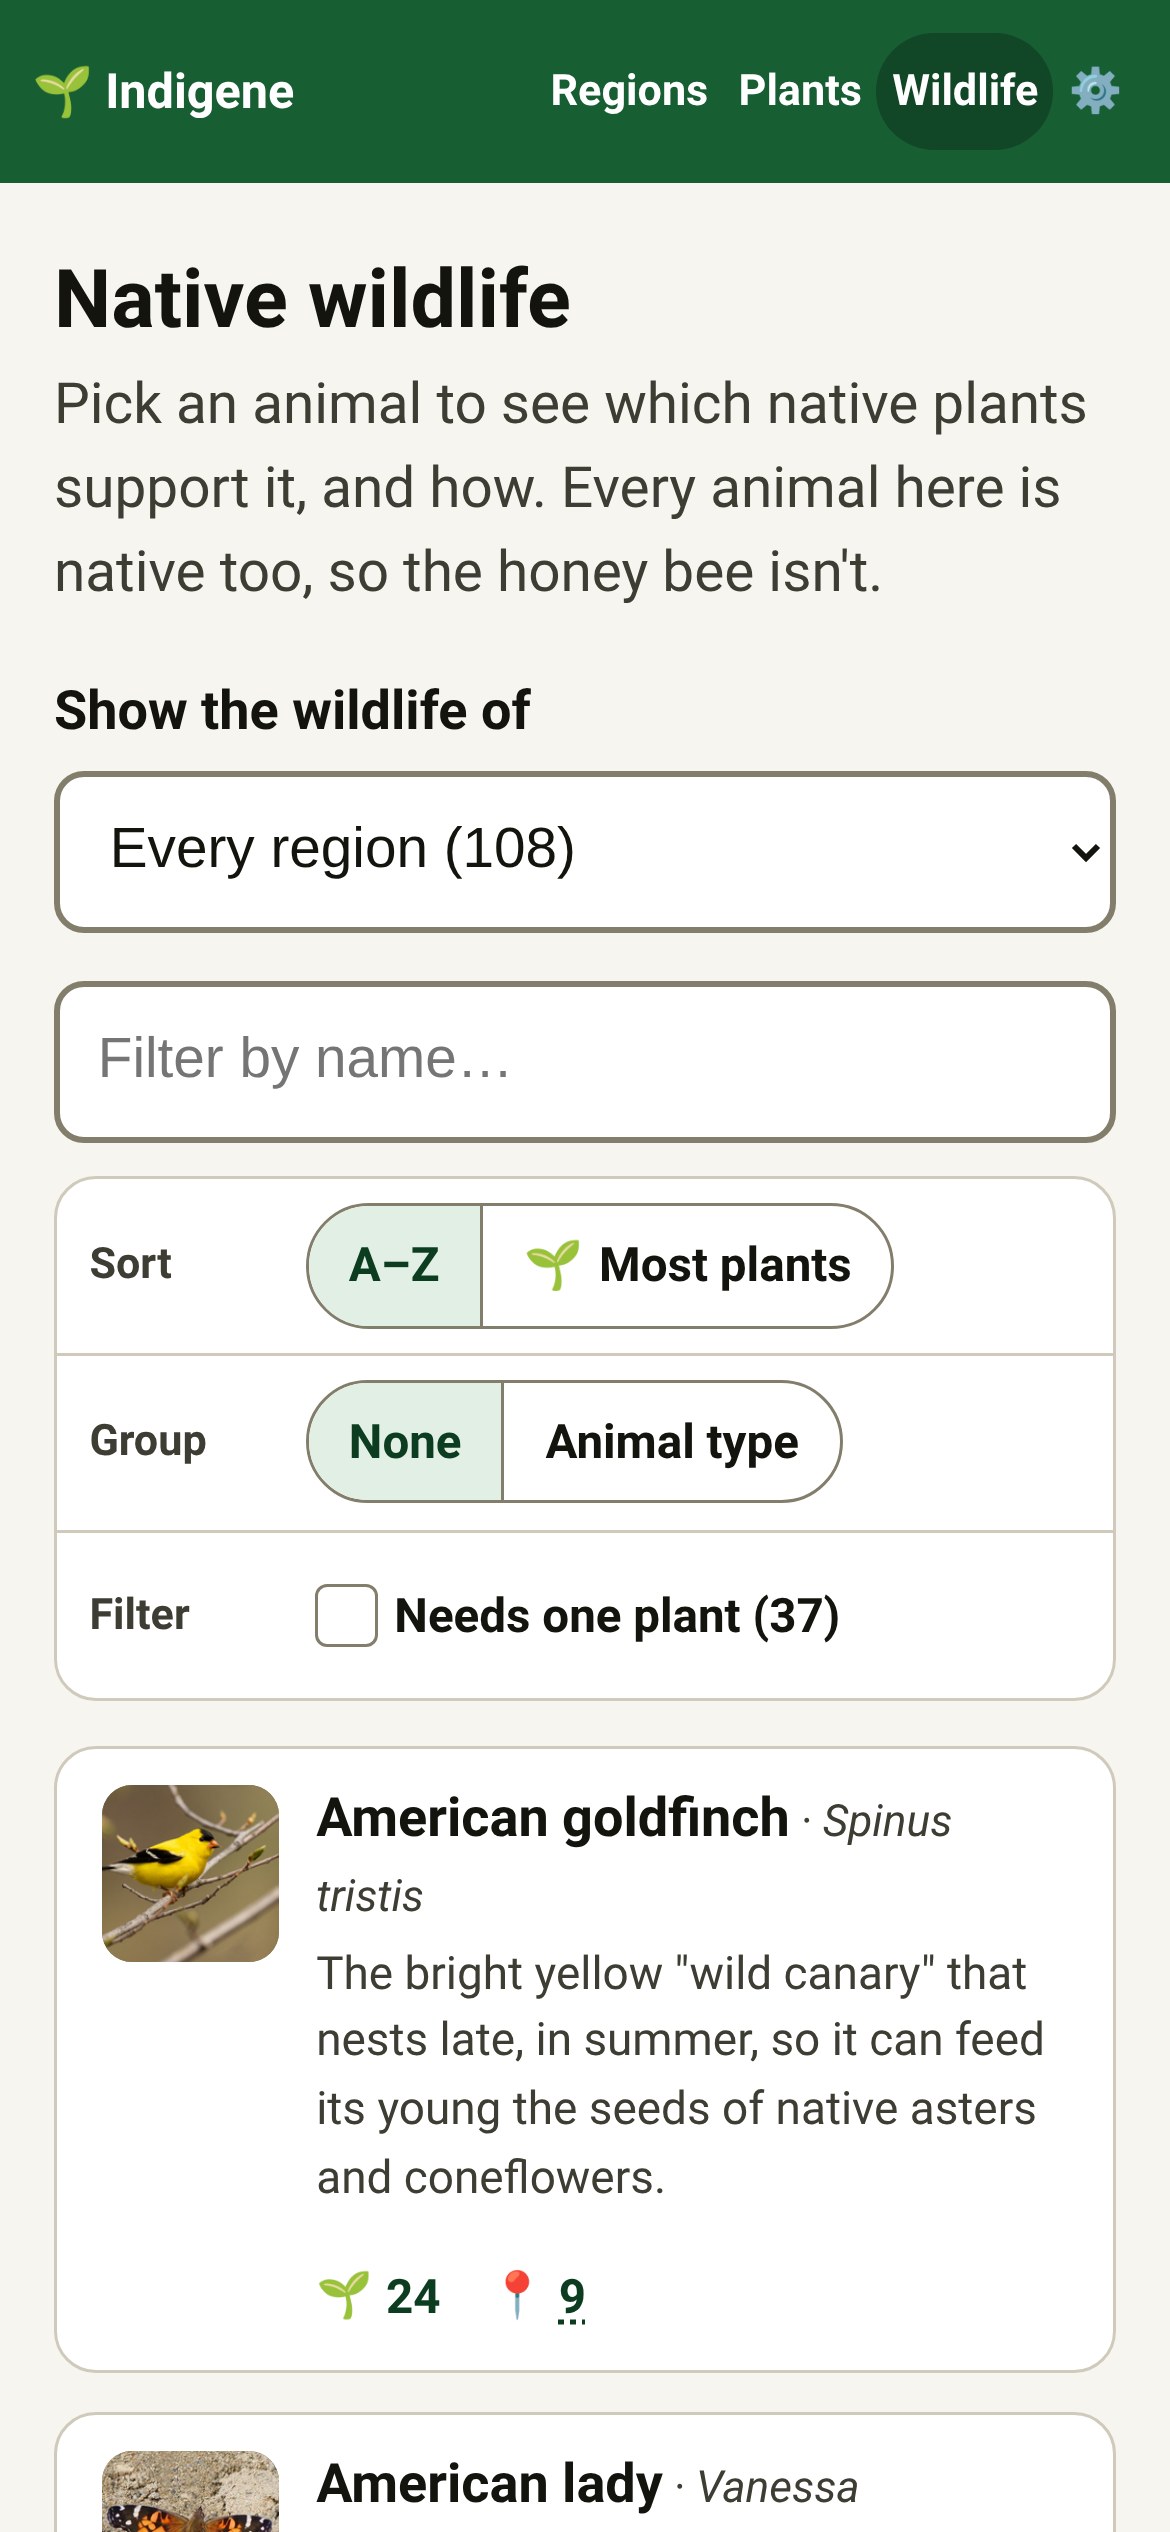
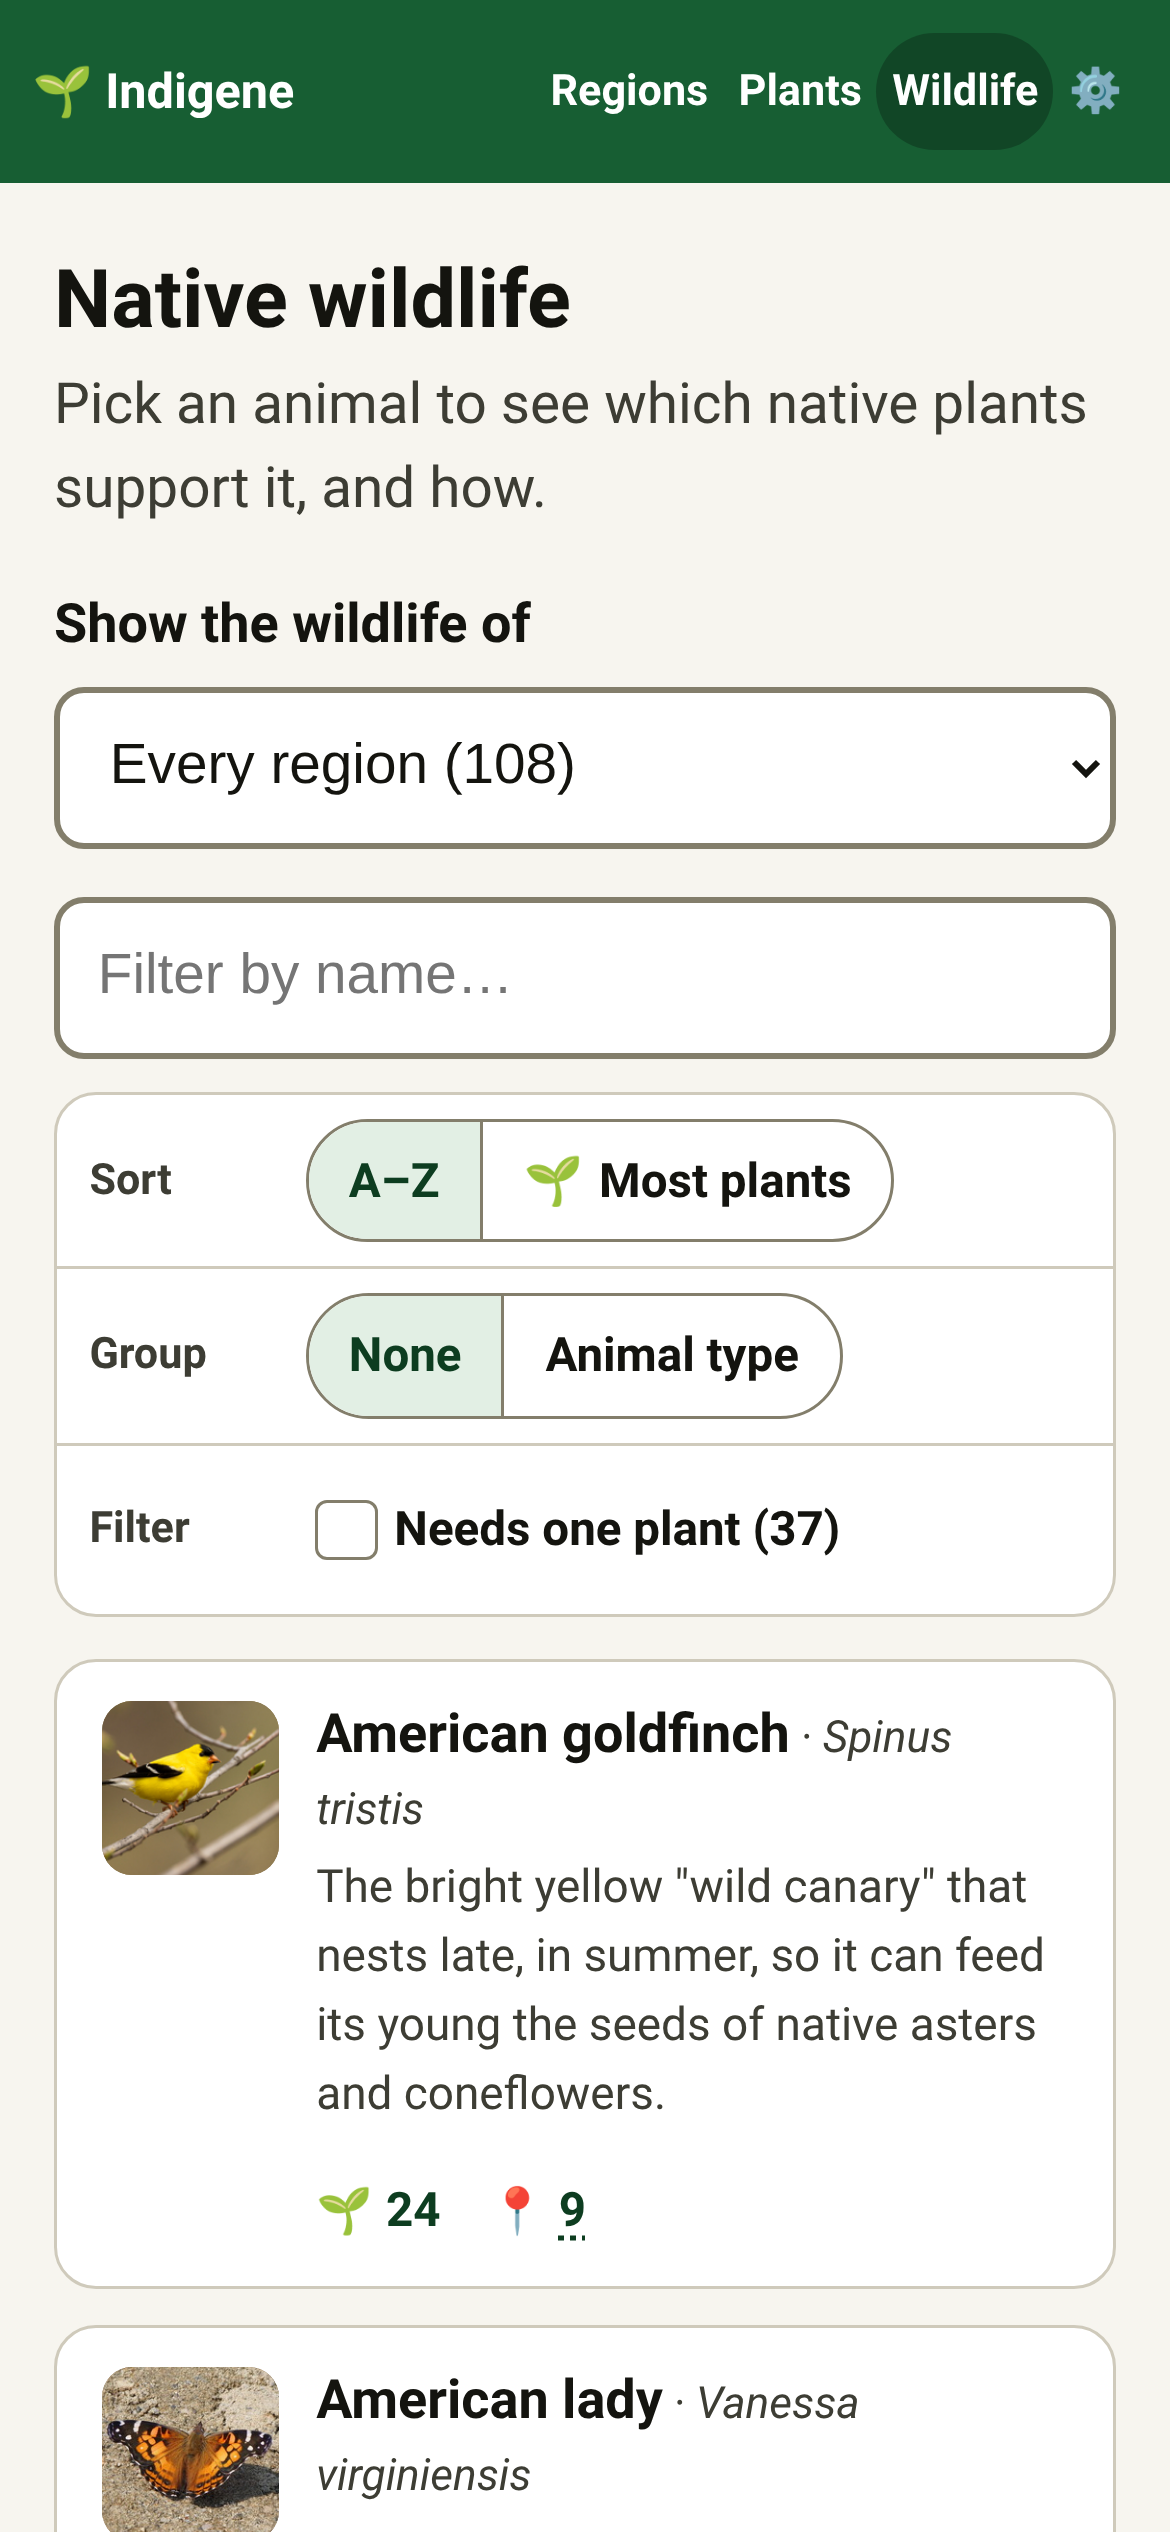
Wildlife index: drop the honey bee line
The heading already says the animals are native, and naming the honey
bee as the one left out stops being true the day Indigene covers a
region where it is native.

Claude-Session: https://claude.ai/code/session_01F4dRL66dywe4qv8C5gSCWT

diff --git a/app/src/locales/fr.ts b/app/src/locales/fr.ts
@@ -1595,7 +1595,7 @@ export const fr: Dict = {
   "wildlife.coverageNote": "Les liens que nous avons vérifiés et sourcés, pas tous les insectes qu'une plante fait vivre. Un seul chêne héberge des centaines d'espèces de papillons de nuit ; voici celles pour lesquelles il vaut la peine de choisir une plante.",
   "wildlife.indexDocTitle": "Plantes indigènes par la faune qu'elles font vivre · Indigene",
   "wildlife.indexTitle": "Faune indigène",
-  "wildlife.indexLede": "Choisissez un animal pour voir quelles plantes indigènes le font vivre, et comment. Chaque animal est lui-même indigène : l’abeille domestique n’y figure donc pas.",
+  "wildlife.indexLede": "Choisissez un animal pour voir quelles plantes indigènes le font vivre, et comment.",
   "wildlife.browsePlants": "← Parcourir plutôt les plantes",
   "wildlife.browsePlantsShort": "Parcourir les plantes",
   "wildlife.startFromSpot": "Partir d'un lieu",

diff --git a/app/src/locales/en.ts b/app/src/locales/en.ts
@@ -1634,7 +1634,7 @@ export const en = {
   "wildlife.coverageNote": "The ties we've checked and sourced, not every insect a plant feeds. An oak alone hosts hundreds of moths; these are the ones worth choosing a plant for.",
   "wildlife.indexDocTitle": "Native plants by the wildlife they support · Indigene",
   "wildlife.indexTitle": "Native wildlife",
-  "wildlife.indexLede": "Pick an animal to see which native plants support it, and how. Every animal here is native too, so the honey bee isn't.",
+  "wildlife.indexLede": "Pick an animal to see which native plants support it, and how.",
   "wildlife.browsePlants": "← Browse plants instead",
   "wildlife.browsePlantsShort": "Browse plants",
   "wildlife.startFromSpot": "Start from a spot",

diff --git a/changelog.d/claude-zealous-maxwell-ida9sq.md b/changelog.d/claude-zealous-maxwell-ida9sq.md
@@ -6,4 +6,4 @@
 
 ### Changed
 
-- Wildlife: the top of the page is now one heading and two short sentences, so the first animals show up without scrolling.
+- Wildlife: the top of the page is now a heading and one sentence, so the first animals show up without scrolling.
